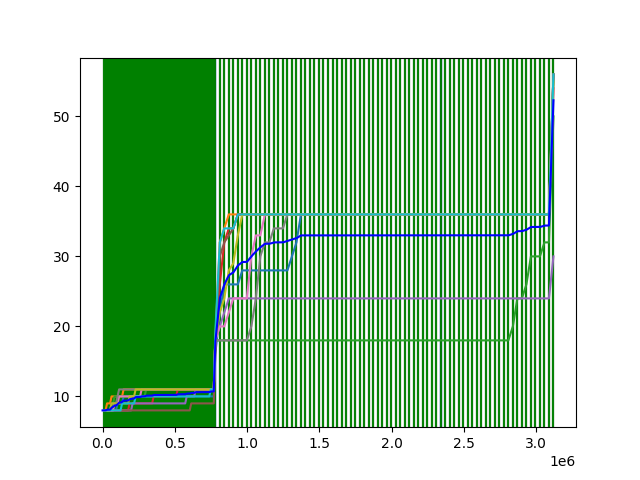
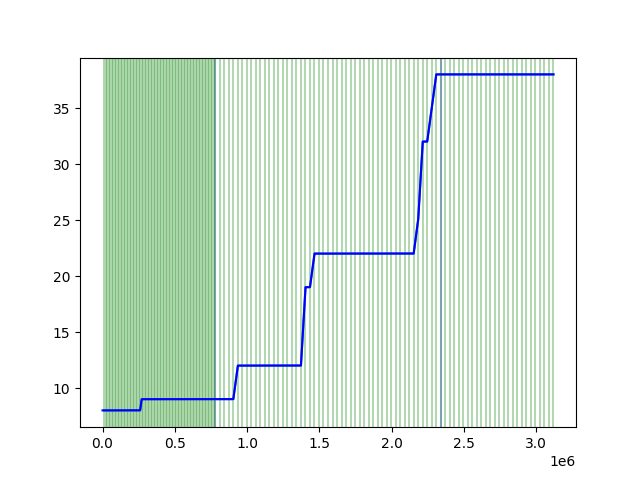
feat - Changes

diff --git a/model.py b/model.py
@@ -5,6 +5,7 @@ from Agent import *
 import matplotlib.pyplot as plt
 import numpy as np
 from data_processing import *
+import csv
 
 def format_agents_csv(agents):
     format_agents = []
@@ -14,19 +15,20 @@ def format_agents_csv(agents):
             c_a = 'Adult'
         else:
             c_a = 'Child'
-        format_agents.append((agent.ideolect, c_a))
+        format_agents.append((agent.id, agent.ideolect, c_a))
     return format_agents
 
 def new_generation(agents, lam, h, set_speaking, prop_speaking, num_child):
+    MAX_ID = len(agents)
     new_agents = []
 
     #remove current adults
     for agent in agents:
         if agent.isAdult == False:
             new_agents.append(agent)
-        else:
-            if agent in set_speaking:
-                set_speaking.remove(agent)
+        #else:
+            #if agent in set_speaking:
+                #set_speaking.remove(agent)
             
 
     #make new adults
@@ -39,10 +41,11 @@ def new_generation(agents, lam, h, set_speaking, prop_speaking, num_child):
     for agent in new_agents:
         if agent.isAdult == True:
             for i in range(num_child):
-                new_child = Agent(lam, h, agent.ideolect, 0, False)
+                new_child = Agent(lam, h, agent.ideolect, MAX_ID, False)
                 new_agents.append(new_child)
-            if agent in set_speaking:
-                set_speaking.add(new_child)
+                MAX_ID+=1
+                #if agent in set_speaking:
+                    #set_speaking.add(new_child)
 
     return new_agents, prop_speaking
 
@@ -113,13 +116,14 @@ def setup_model(NUM_AGENTS, INITIAL_VARIANT_OCCURENCE, H, LAMBDA, WEIGHTS, NUM_S
 
             agent_one, agent_two = choose_agents(agents)
             prop_speaking = agent_interaction(agent_one, agent_two, prop_speaking, set_speaking, WEIGHTS, THRESHHOLD)
-            if num_interactions % (((1.3 * (10 ** 5)) * len(agents)) /150 ) == 0: #get data every year
+            if num_interactions % (((1.3 * (10 ** 5)) * len(agents)) / 150 ) == 0: #get data every 6 months
                 year += 1
                 print("data added! for year: " + str(year))
                 years.append(cur_x)
                 x.append(cur_x)
                 y.append(len(set_speaking))
                 max_x.add(cur_x)
+            
             cur_x+=1
 
         print("SIM COMPLETE")
@@ -128,6 +132,7 @@ def setup_model(NUM_AGENTS, INITIAL_VARIANT_OCCURENCE, H, LAMBDA, WEIGHTS, NUM_S
         csv_data.append(speaker_data)
         set_x.append(x)
         set_y.append(y)
+        print(speaker_data)
     if USE_GEN_REPLACE == True: 
         av_gen1, av_gen2 = get_average_props(csv_data, NUM_AGENTS, NUM_CHILD_PER_ADULT, NUM_SIMULATIONS)
         print("GEN 1 AVERAGE:")
@@ -153,5 +158,26 @@ def setup_model(NUM_AGENTS, INITIAL_VARIANT_OCCURENCE, H, LAMBDA, WEIGHTS, NUM_S
     
     endtime = time.time()
     print("Model took " + str(endtime - starttime) + " seconds to run")
+
+    with open('gen_one.csv', 'w', newline='') as csvfile:
+        csvwriter = csv.writer(csvfile, delimiter=',',
+                                quotechar='|', quoting=csv.QUOTE_MINIMAL)
+        csvwriter.writerow(["agent_id", "variant_prob", "age"])
+        for agent in av_gen1:
+            csvwriter.writerow([agent[0], agent[1], agent[2]])
+
+    with open('gen_two.csv', 'w', newline='') as csvfile:
+        csvwritertwo = csv.writer(csvfile, delimiter=',',
+                                quotechar='|', quoting=csv.QUOTE_MINIMAL)
+        csvwritertwo.writerow(["agent_id", "variant_prob", "age"])
+        for agent in av_gen2:
+            csvwritertwo.writerow([agent[0], agent[1], str(agent[2])])
+
+    with open('prop_speaking.csv', 'w', newline='') as csvfile:
+        csvwriterthree = csv.writer(csvfile, delimiter=',',
+                                quotechar='|', quoting=csv.QUOTE_MINIMAL)
+        csvwriterthree.writerow(["prop_speaking"])
+        for item in ys_interp:
+            csvwriterthree.writerow(item)
     
   

diff --git a/network_setup.py b/network_setup.py
@@ -2,40 +2,50 @@ import math
 from Agent import *
 import numpy as np
 
+MAX_ID = 0
+
 def get_model_agents(h, lam, num, init, use_gen, num_child):
+    global MAX_ID
     agents = []
     set_speaking = set()
     
     if use_gen == True:
         #Adults
         for i in range(0, math.floor(num*init)):
-            agent = Agent(lam * (1/200), h, [1, 0], i, True)
+            agent = Agent(lam * (1/200), h, [1, 0], MAX_ID, True)
             agents.append(agent)
             set_speaking.add(agent)
+            MAX_ID+=1
 
         for i in range(math.floor(num*init), num):
-            agent = Agent(lam * (1/200), h, [0, 1], i, True)
+            agent = Agent(lam * (1/200), h, [0, 1], MAX_ID, True)
             agents.append(agent)
+            MAX_ID+=1
 
         #children
         for i in range(0, math.floor(num*init)*num_child):
-            agent = Agent(lam, h, [1, 0], num+i, False)
+            agent = Agent(lam, h, [1, 0], MAX_ID, False)
             agents.append(agent)
             set_speaking.add(agent)
+            MAX_ID+=1
 
         for i in range(math.floor(num*init)*num_child, num*num_child):
-            agent = Agent(lam, h, [0, 1], num+i, False)
+            agent = Agent(lam, h, [0, 1], MAX_ID, False)
             agents.append(agent)
+            MAX_ID+=1
     else:
         #children
         for i in range(0, math.floor(num*init)):
-            agent = Agent(lam, h, [1, 0], num+i, False)
+            agent = Agent(lam, h, [1, 0], MAX_ID, False)
             agents.append(agent)
             set_speaking.add(agent)
+            MAX_ID+=1
 
         for i in range(math.floor(num*init), num):
-            agent = Agent(lam, h, [0, 1], num+i, False)
+            agent = Agent(lam, h, [0, 1], MAX_ID, False)
             agents.append(agent)
-        
+            MAX_ID+=1
+    print('completed set up')    
+    print(MAX_ID)
     return agents, set_speaking
 

diff --git a/data_processing.py b/data_processing.py
@@ -32,11 +32,11 @@ def get_agents_average(data):
     idiolect1 = 0
     idiolect2 = 0
     for agent in data:
-        idiolect1 += agent[0][0]
-        idiolect2 += agent[0][1]
-    av_1 = round(idiolect1 / len(data), 2)
-    av_2 = round(idiolect2 / len(data), 2)
-    new_agent = (av_1, data[0][1])
+        idiolect1 += agent[1][0]
+        idiolect2 += agent[1][1]
+    av_1 = round(idiolect1 / len(data), 3)
+    av_2 = round(idiolect2 / len(data), 3)
+    new_agent = (data[0][0], av_1, data[0][2])
     return new_agent
 
     

diff --git a/HRetention_config.py b/HRetention_config.py
@@ -1,11 +1,17 @@
 from model import *
+"""
+pretty good values
+H = 0.2
+LAMBDA = 0.025 
+WEIGHTS = [1.0002, 1]
+"""
 
 NUM_AGENTS = 3
 INITIAL_VARIANT_OCCURENCE = 0.75
 H = 0.2
-LAMBDA = 0.03
-WEIGHTS = [1.0005, 1]
-NUM_SIMULATIONS = 10
+LAMBDA = 0.025 
+WEIGHTS = [1.0002, 1]
+NUM_SIMULATIONS = 1
 NUM_CHILD_PER_ADULT = 3
 USE_GEN_REPLACE = True 
 THRESHHOLD = 0.99
